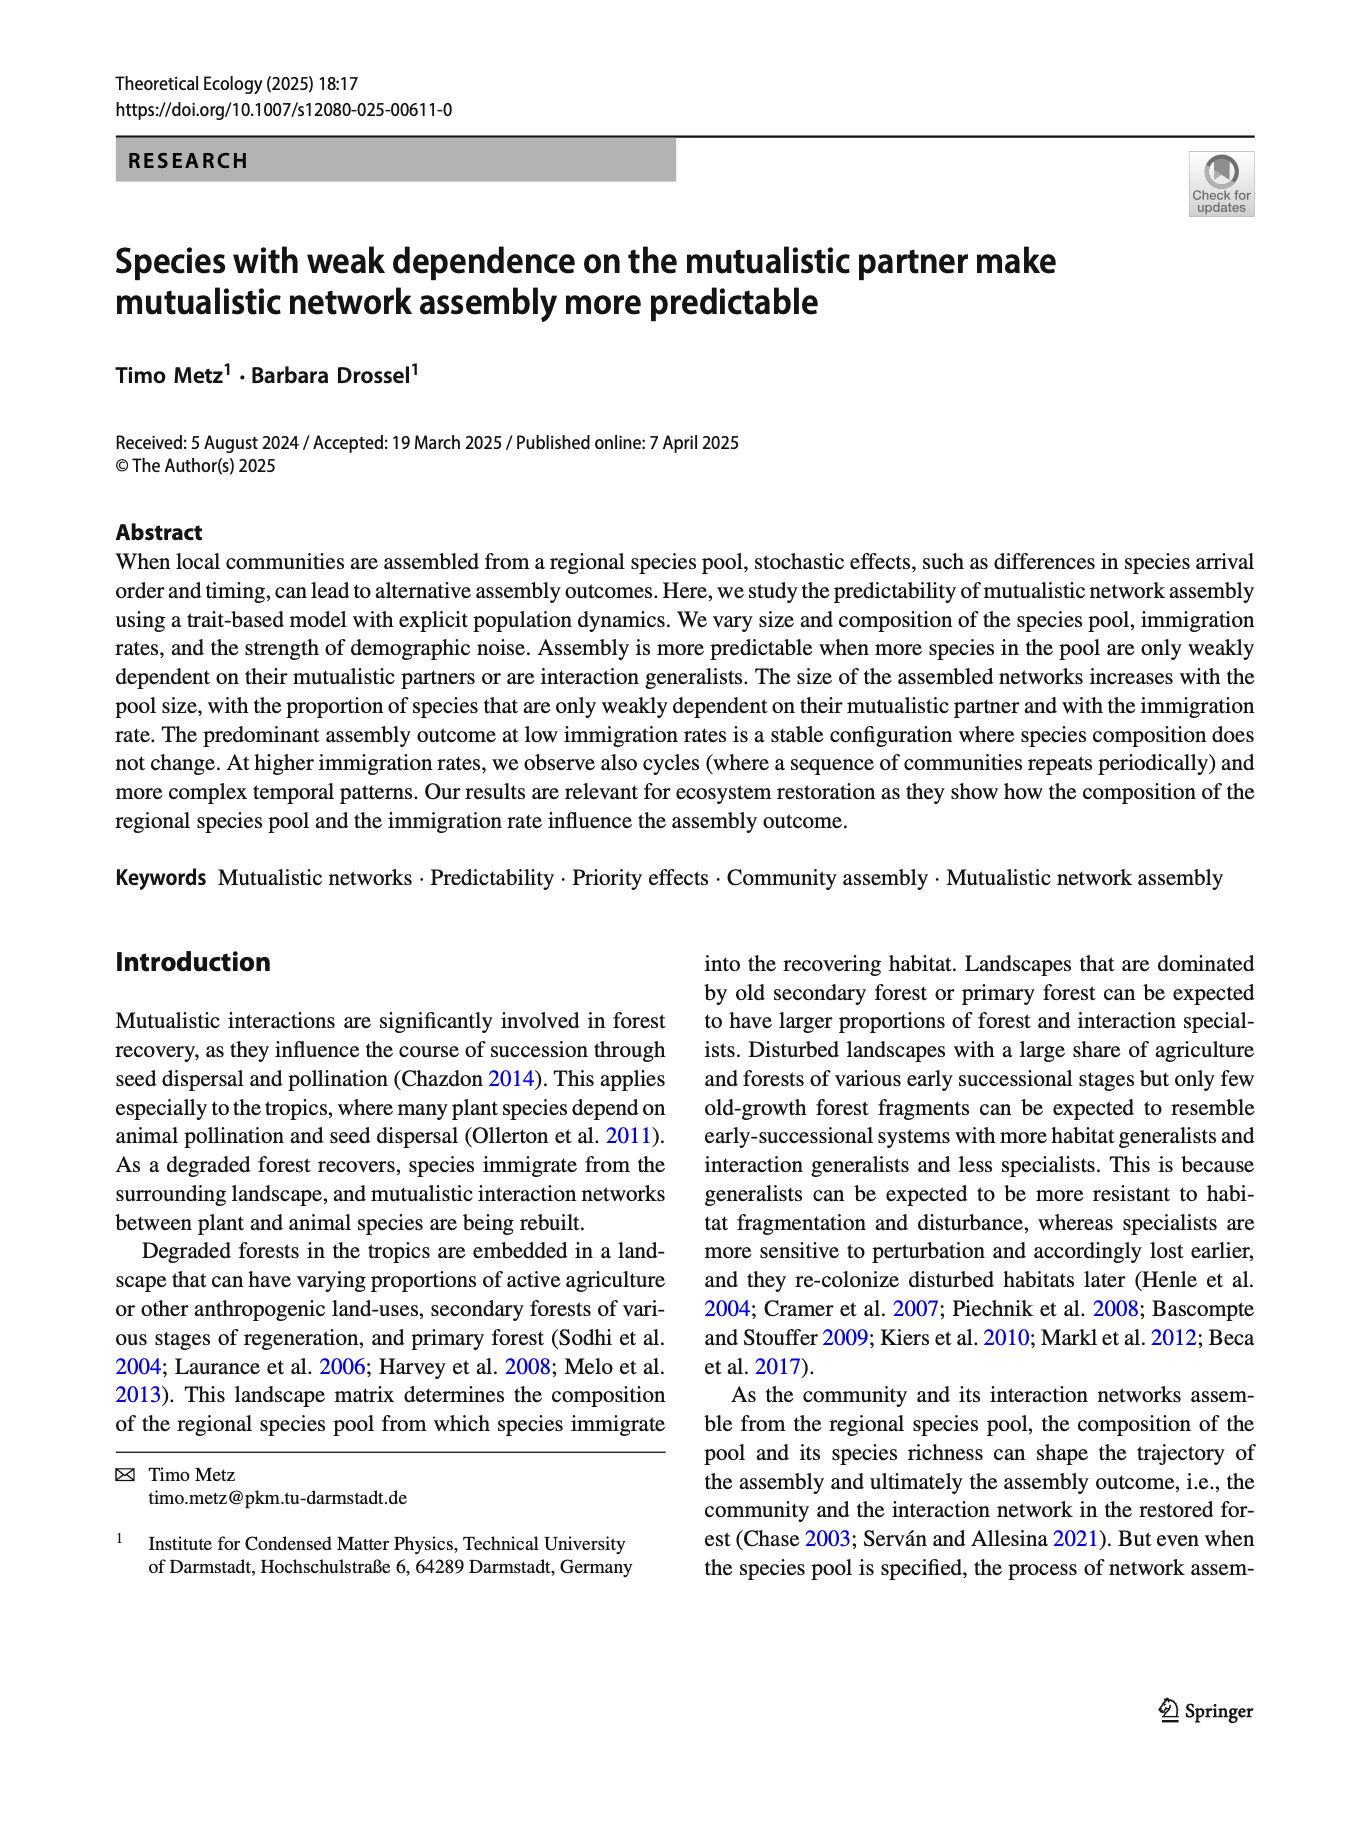
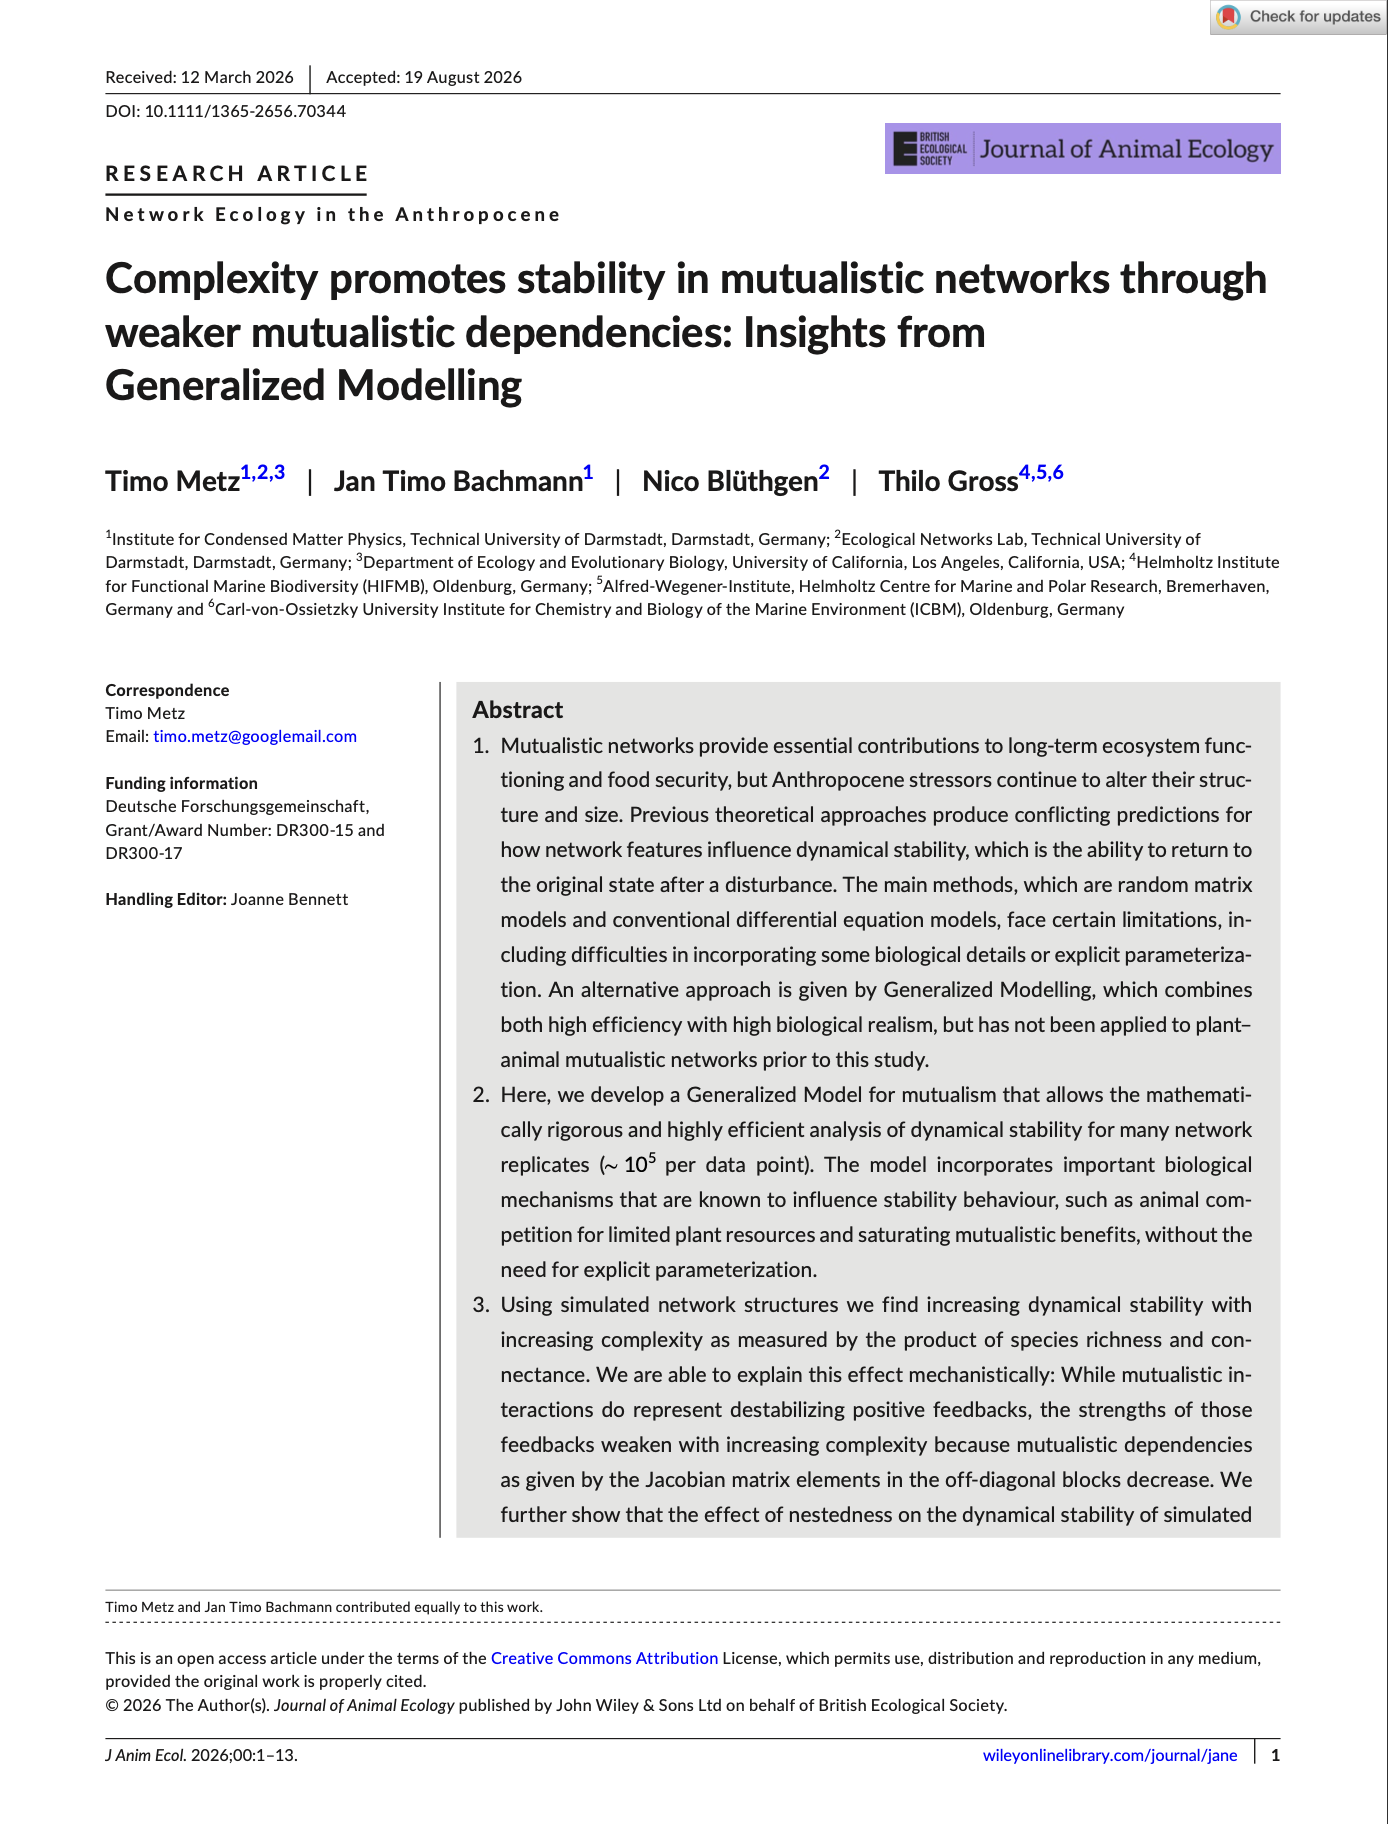
Add 2026 Journal of Animal Ecology paper to publications
Feature "Complexity promotes stability in mutualistic networks through
weaker mutualistic dependencies: Insights from Generalized Modelling"
(Metz, Bachmann, Bluethgen & Gross 2026) as the middle highlight, with
its title page as cover image.

The Theoretical Ecology paper it replaces moves down to a new 2025 group
under Other Publications.

diff --git a/publications.html b/publications.html
@@ -194,23 +194,22 @@
     </article>
 
     <!-- Key Publication 2 — image RIGHT -->
-    <article class="featured-pub reverse fade-in" data-year="2025">
+    <article class="featured-pub reverse fade-in" data-year="2026">
       <div class="pub-cover">
         <img src="photos/Research_highlights/2.png" alt="Publication cover">
       </div>
       <div class="pub-body">
-        <p class="pub-meta">2025 &middot; Theoretical Ecology</p>
-        <h3 class="pub-feat-title">Species with weak dependence on the mutualistic partner make mutualistic network assembly more predictable</h3>
-        <p class="pub-feat-authors"><strong>T Metz</strong>, B Drossel</p>
+        <p class="pub-meta">2026 &middot; Journal of Animal Ecology</p>
+        <h3 class="pub-feat-title">Complexity promotes stability in mutualistic networks through weaker mutualistic dependencies: Insights from Generalized Modelling</h3>
+        <p class="pub-feat-authors"><strong>T Metz</strong>, J T Bachmann, N Bl&uuml;thgen, T Gross</p>
         <!-- <p class="pub-description">A short, accessible summary of what this paper is about and why it matters.</p> -->
         <button class="abstract-toggle" onclick="toggleAbstract(this)">
           <svg viewBox="0 0 24 24" fill="none" stroke="currentColor" stroke-width="2"><path d="M6 9l6 6 6-6"/></svg>
           Show abstract
         </button>
-        <div class="abstract-box">When local communities are assembled from a regional species pool, stochastic effects, such as differences in species arrival order and timing, can lead to alternative assembly outcomes. Here, we study the predictability of mutualistic network assembly using a trait-based model with explicit population dynamics. We vary size and composition of the species pool, immigration rates, and the strength of demographic noise. Assembly is more predictable when more species in the pool are only weakly dependent on their mutualistic partners or are interaction generalists. The size of the assembled networks increases with the pool size, with the proportion of species that are only weakly dependent on their mutualistic partner and with the immigration rate. The predominant assembly outcome at low immigration rates is a stable configuration where species composition does not change. At higher immigration rates, we observe also cycles (where a sequence of communities repeats periodically) and more complex temporal patterns. Our results are relevant for ecosystem restoration as they show how the composition of the regional species pool and the immigration rate influence the assembly outcome.</div>
+        <div class="abstract-box">Mutualistic networks provide essential contributions to long-term ecosystem functioning and food security, but Anthropocene stressors continue to alter their structure and size. Previous theoretical approaches produce conflicting predictions for how network features influence dynamical stability, which is the ability to return to the original state after a disturbance. The main methods, which are random matrix models and conventional differential equation models, face certain limitations, including difficulties in incorporating some biological details or explicit parameterization. An alternative approach is given by Generalized Modelling, which combines both high efficiency with high biological realism, but has not been applied to plant&ndash;animal mutualistic networks prior to this study. Here, we develop a Generalized Model for mutualism that allows the mathematically rigorous and highly efficient analysis of dynamical stability for many network replicates (&sim;10<sup>5</sup> per data point). The model incorporates important biological mechanisms that are known to influence stability behaviour, such as animal competition for limited plant resources and saturating mutualistic benefits, without the need for explicit parameterization. Using simulated network structures we find increasing dynamical stability with increasing complexity as measured by the product of species richness and connectance. We are able to explain this effect mechanistically: While mutualistic interactions do represent destabilizing positive feedbacks, the strengths of those feedbacks weaken with increasing complexity because mutualistic dependencies as given by the Jacobian matrix elements in the off-diagonal blocks decrease. We further show that the effect of nestedness on the dynamical stability of simulated networks is negligible compared to the effect of connectance and species richness. Additionally, we find similar relationships between network features and dynamical stability for 160 empirical networks as an input for our model, highlighting the robustness of our findings. As Anthropocene stressors lead to species and interaction loss, our model results predict a corresponding loss in dynamical stability if network complexity is decreased, highlighting the urgency of conservation strategies that preserve network complexity.</div>
         <div class="pub-badges">
-          <a href="https://doi.org/10.1007/s12080-025-00611-0" class="badge">Link</a>
-          <!--  <a href="#" class="badge">PDF</a> -->
+          <a href="https://doi.org/10.1111/1365-2656.70344" target="_blank" rel="noopener" class="badge">Link</a>
         </div>
       </div>
     </article>
@@ -244,6 +243,25 @@
     <section id="other">
     <h2 class="section-title" style="margin-top:2rem;">Other Publications</h2>
     <div class="section-rule"></div>
+
+    <!-- ══════════════════════════════════════════
+         2025
+    ══════════════════════════════════════════ -->
+    <div class="year-group fade-in" data-year="2025">
+      <h2 class="year-heading">2025</h2>
+
+      <div class="pub-item">
+        <div class="pub-ref">
+          <span class="pub-title-text">Species with weak dependence on the mutualistic partner make mutualistic network assembly more predictable.</span>
+          <span class="pub-authors"> <strong>T Metz</strong>, B Drossel</span>
+          <span class="pub-journal"> Theoretical Ecology</span>
+        </div>
+        <div class="pub-badges">
+          <a href="https://doi.org/10.1007/s12080-025-00611-0" class="badge">Link</a>
+        </div>
+      </div>
+
+    </div>
 
     <!-- ══════════════════════════════════════════
          2022
